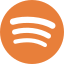
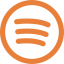
Atulizei os icones, ajustei varios detalhes finais que a cliente pediu

diff --git a/sobre.html b/sobre.html
@@ -95,11 +95,10 @@
                             Terapeuta,
                             <span class="color">escritora, professora</span> e empresária.
                         </span>
-                        <br>
                         <span class="about-second-line">
                             A menina nascida em 23/01/1983, de mente inquieta, comunicativa,
                             e ao mesmo tempo introspectiva, tinha o sonho de ser <b>escritora,
-                                professora e empresária</b>. Foi persistente, resiliente e fez a
+                             professora e empresária</b>. Foi persistente, resiliente e fez a
                             vida que ela queria acontecer.
                             <br>
                             <br>
@@ -112,16 +111,16 @@
                             Hoje, <b>pós-graduanda em Espiritualidade, Carreira e Sentido de Vida</b>,
                             pesquisa o mundo da mentalidade e do autoconhecimento para trazer mais
                             ferramentas de cura para seu trabalho de <b>Terapeuta Holística, Taróloga,
-                                Biblioterapeuta e Desprogramadora de Crenças</b>.
+                            Biblioterapeuta e Desprogramadora de Crenças</b>.
                             <br>
                             <br>
                             Aliado ao seu trabalho de sessões e mentorias terapêuticas, traz a experiência
                             de mais de <b>17 anos de liderança e gestão de pessoas e de empresária desde
-                                2013</b>.
+                            2013</b>.
                             <br>
                             <br>
                             São mais de <b>13 mil horas de aulas dadas</b>, mais de <b>12 mil horas de
-                                treinamentos feitos</b> e já era mentora antes mesmo desse termo virar moda.
+                            treinamentos feitos</b> e já era mentora antes mesmo desse termo virar moda.
                             São também mais de <b>20 mil horas de atendimento</b> pedagógico, coordenação
                             de ensino, seleção de pessoas, entrevistas, contratações, atendimento ao cliente,
                             negociações e vendas.
@@ -131,7 +130,7 @@
                             e uma <b>aquariana</b> que adora inovar, ouvir e contar histórias que curam.
                             Através da <b>Literatura Terapêutica</b>, em seus <b>Círculos de Empoderamento</b>,
                             ela cria espaços de fala para mulheres praticarem o <b>autocuidado e a escuta das
-                                emoções</b>. E o <b>Tarô</b>, uma de suas paixões, também conta histórias para
+                            emoções</b>. E o <b>Tarô</b>, uma de suas paixões, também conta histórias para
                             quem tem ouvidos para ouvir e olhos para despertar.
                             <br>
                             <br>
@@ -139,7 +138,7 @@
                             mudaram sua maneira de ver a vida. E só o fato de ser empresária também a fez
                             amadurecer como pessoa e não só como profissional. Clarice Lispector a definiria
                             assim: <i>Sou como você me vê. Posso ser leve como uma brisa ou forte como uma
-                                ventania. Depende de quando e como você me vê passar.</i>
+                            ventania. Depende de quando e como você me vê passar.</i>
                             <br>
                             <br>
                             Aquário e Capricórnio são seus signos solares. Touro é seu signo lunar. Seus
@@ -189,7 +188,7 @@
                             despertar. <span class="color">Acorde!</span>
                         </p>
                         <div class="button-sobre">
-                            <a href="#"><button>Saiba <span class="colors">Mais</span></button></a>
+                            <a href="#"><button>Saiba Mais</button></a>
                         </div>
                     </div>
                 </div>
@@ -224,15 +223,15 @@
 
             <div class="footer">
                 <div class="footer-text">
-                    ©2023 Feito com muito carinho por
-                    <a href="https://www.instagram.com/marciahelena.lima/" target="_blank">@Márcia Helena</a>
+                    <p>©2023 JOANA MIERES. Todos os direitos reservados.</p>
+                    <p>Desenvolvido com amor por <a href="https://www.instagram.com/marciahelena.lima/" target="_blank">@Márcia Helena</a></p>
                 </div>
 
                 <div class="redes-footer">
-                    <a href="https://www.instagram.com/joanamieres/" target="_blank"><img
-                            src="images/instagram branco.png" class="social-media-footer" alt="instagram-logo"></a>
                     <a href="https://wa.me/554197895343" target="_blank"><img src="images/whatsapp branco.png"
                             class="social-media-footer" alt="whatsapp-logo"></a>
+                    <a href="https://www.instagram.com/joanamieres/" target="_blank"><img
+                            src="images/instagram branco.png" class="social-media-footer" alt="instagram-logo"></a>
                     <a href="https://spotify.com/" target="_blank"><img src="images/spotify branco.png"
                             class="social-media-footer" alt="spotify-logo"></a>
                 </div>

diff --git a/index.html b/index.html
@@ -57,10 +57,10 @@
             <div id="particles"></div>
             <!--Social Media Links-->
             <div class="social-media-links">
-                <a href="https://www.instagram.com/joanamieres/" target="_blank"><img src="images/instagram.png"
-                        class="social-media" alt="instagram-logo"></a>
                 <a href="https://wa.me/554197895343" target="_blank"><img src="images/whatsapp.png" class="social-media"
                         alt="whatsapp-logo"></a>
+                <a href="https://www.instagram.com/joanamieres/" target="_blank"><img src="images/instagram.png"
+                        class="social-media" alt="instagram-logo"></a>
                 <a href="https://spotify.com/" target="_blank"><img src="images/spotify.png" class="social-media"
                         alt="spotify-logo"></a>
             </div>
@@ -92,7 +92,7 @@
     <script src="js/particles.min.js"></script>
     <script src="js/index.js"></script>
     <!--particles script-->
-    <script> particlesJS ("particles", { "particles": { "number": { "value": 120, "density": { "enable": true, "value_area": 800 } }, "color": { "value": "#ffffff" }, "shape": { "type": "circle", "stroke": { "width": 0, "color": "#000000" }, "polygon": { "nb_sides": 5 }, "image": { "src": "img/github.svg", "width": 100, "height": 100 } }, "opacity": { "value": 0.5, "random": false, "anim": { "enable": true, "speed": 1, "opacity_min": 0.1, "sync": false } }, "size": { "value": 3, "random": true, "anim": { "enable": true, "speed": 0, "size_min": 0.1, "sync": false } }, "line_linked": { "enable": false, "distance": 0, "color": " #E87F3A", "opacity": 0.24463576890600452, "width": 1.2626362266116362 }, "move": { "enable": true, "speed": 3, "direction": "none", "random": false, "straight": false, "out_mode": "out", "bounce": false, "attract": { "enable": false, "rotateX": 600, "rotateY": 1200 } } }, "interactivity": { "detect_on": "canvas", "events": { "onhover": { "enable": false, "mode": "grab" }, "onclick": { "enable": true, "mode": "push" }, "resize": true }, "modes": { "grab": { "distance": 400, "line_linked": { "opacity": 1 } }, "bubble": { "distance": 400, "size": 40, "duration": 2, "opacity": 8, "speed": 3 }, "repulse": { "distance": 200, "duration": 0.4 }, "push": { "particles_nb": 4 }, "remove": { "particles_nb": 2 } } }, "retina_detect": true });</script>
+    <script> particlesJS("particles", { "particles": { "number": { "value": 120, "density": { "enable": true, "value_area": 800 } }, "color": { "value": "#ffffff" }, "shape": { "type": "circle", "stroke": { "width": 0, "color": "#000000" }, "polygon": { "nb_sides": 5 }, "image": { "src": "img/github.svg", "width": 100, "height": 100 } }, "opacity": { "value": 0.5, "random": false, "anim": { "enable": true, "speed": 1, "opacity_min": 0.1, "sync": false } }, "size": { "value": 3, "random": true, "anim": { "enable": true, "speed": 0, "size_min": 0.1, "sync": false } }, "line_linked": { "enable": false, "distance": 0, "color": " #E87F3A", "opacity": 0.24463576890600452, "width": 1.2626362266116362 }, "move": { "enable": true, "speed": 3, "direction": "none", "random": false, "straight": false, "out_mode": "out", "bounce": false, "attract": { "enable": false, "rotateX": 600, "rotateY": 1200 } } }, "interactivity": { "detect_on": "canvas", "events": { "onhover": { "enable": false, "mode": "grab" }, "onclick": { "enable": true, "mode": "push" }, "resize": true }, "modes": { "grab": { "distance": 400, "line_linked": { "opacity": 1 } }, "bubble": { "distance": 400, "size": 40, "duration": 2, "opacity": 8, "speed": 3 }, "repulse": { "distance": 200, "duration": 0.4 }, "push": { "particles_nb": 4 }, "remove": { "particles_nb": 2 } } }, "retina_detect": true });</script>
 </body>
 
 </html>

diff --git a/css/index.css b/css/index.css
@@ -367,18 +367,6 @@ body {
     transform: scale(1.1);
 }
 
-.social-media-footer {
-    width: 35px;
-    opacity: .6;
-    margin: 8px;
-    transition: all .4s ease;
-}
-
-.social-media-footer:hover {
-    opacity: 1;
-    transform: scale(1.1);
-}
-
 .color {
     color: var(--orange);
     transition: all .4s ease;
@@ -504,13 +492,12 @@ body {
 
 .about-first-paragraph {
     width: 65%;
-    padding: 30px;
+    padding: 0 30px;
     font-size: 20px;
     font-family: 'Belleza';
     font-weight: 400;
     color: var(--black);
     text-align: justify;
-    flex-direction: column;
     display: block;
 }
 
@@ -535,7 +522,7 @@ body {
 .text-sobre {
     opacity: 0.8;
     width: 100%;
-    padding: 30px;
+    padding-top: 20px;
     font-size: 25px;
     font-weight: 200;
     color: var(--black);
@@ -544,7 +531,7 @@ body {
 
 .about-main {
     display: flex;
-    align-items: center;
+    align-items: flex-start;
     justify-content: center;
     width: 100vw;
     height: auto;
@@ -1324,24 +1311,25 @@ form button:hover {
 .footer {
     background: var(--orange);
     width: 100%;
-    height: 85px;
-    padding-left: 50px;
-    padding-right: 50px;
+    min-height: 85px;
+    padding: 0 50px;
     color: var(--black);
     display: flex;
     align-items: center;
     justify-content: space-between;
     position: relative;
     z-index: 4;
+    flex-wrap: wrap;
 }
 
 .footer-text {
     font-size: 20px;
-    display: flex;
     font-family: 'Belleza';
     opacity: 1;
+    display: flex;
     flex-direction: column;
-    width: 50%;
+    flex: 1;
+    margin-right: 20px;
 }
 
 .footer-text a {
@@ -1351,11 +1339,31 @@ form button:hover {
 }
 
 .redes-footer {
-    width: 50%;
     display: flex;
-    justify-content: flex-end;
     align-items: center;
-    flex-direction: row;
+}
+
+.redes-footer .social-media-footer {
+    width: 35px;
+    opacity: 0.6;
+    margin: 8px;
+    transition: all 0.4s ease;
+}
+
+.redes-footer .social-media-footer:hover {
+    opacity: 1;
+    transform: scale(1.1);
+}
+.social-media-footer {
+    width: 35px;
+    opacity: .6;
+    margin: 8px;
+    transition: all .4s ease;
+}
+
+.social-media-footer:hover {
+    opacity: 1;
+    transform: scale(1.1);
 }
 
 .color-changer {
@@ -1506,14 +1514,6 @@ form button:hover {
         display: none;
     }
 
-    .footer {
-        width: 100%;
-    }
-
-    .redes-footer {
-        padding-left: 25px;
-    }
-
     #breaker {
         height: 50vh;
         width: 200%;
@@ -1566,6 +1566,8 @@ form button:hover {
     .about-main {
         flex-direction: column;
         align-items: center;
+        padding-left: 0px;
+        padding-right: 0px;
     }
 
     .about-first-paragraph {
@@ -1958,17 +1960,18 @@ Para dispositivos com largura menor, como telefone celular
         padding-left: 0;
     }
 
-    .redes-footer {
-        padding-left: 0px;
-    }
-
     .redes-footer .social-media-footer {
-        width: 25px;
-        height: 25px;
+        width: 20px;
+        height: 20px;
     }
 
     .footer {
-        width: 100%;
+        padding: 10px 15px;
+    }
+
+    .footer-text {
+        font-size: 13px;
+        margin-right: 0px;
     }
 
     .header-content-box {
@@ -2097,20 +2100,11 @@ Para dispositivos com largura menor, como telefone celular
     }
 
     .text-sobre {
-        padding: 0px;
         margin: 10px auto;
         font-size: 15px;
     }
 
-    .footer {
-        padding-left: 13px;
-        padding-right: 13px;
-    }
 
-    .footer-text {
-        font-size: 13px;
-        width: 60%;
-    }
 
     .skill {
         width: 80%;

diff --git a/js/index.js b/js/index.js
@@ -4,7 +4,7 @@ $(window).on('load', function () {
   gsap.to('#loader', 0, { display: "none", delay: 4 });
   gsap.to('#header', 0, { display: "block", delay: 1 });
   gsap.to('#navigation-content', 0, { display: "none" });
-  gsap.to('#navigation-content', 0, { display: "flex", delay: 1 });
+  gsap.to('#navigation-content', 0, { display: "flex", delay: 2 });
 });
 $(function () {
   $('.color-panel').on("click", function (e) {
